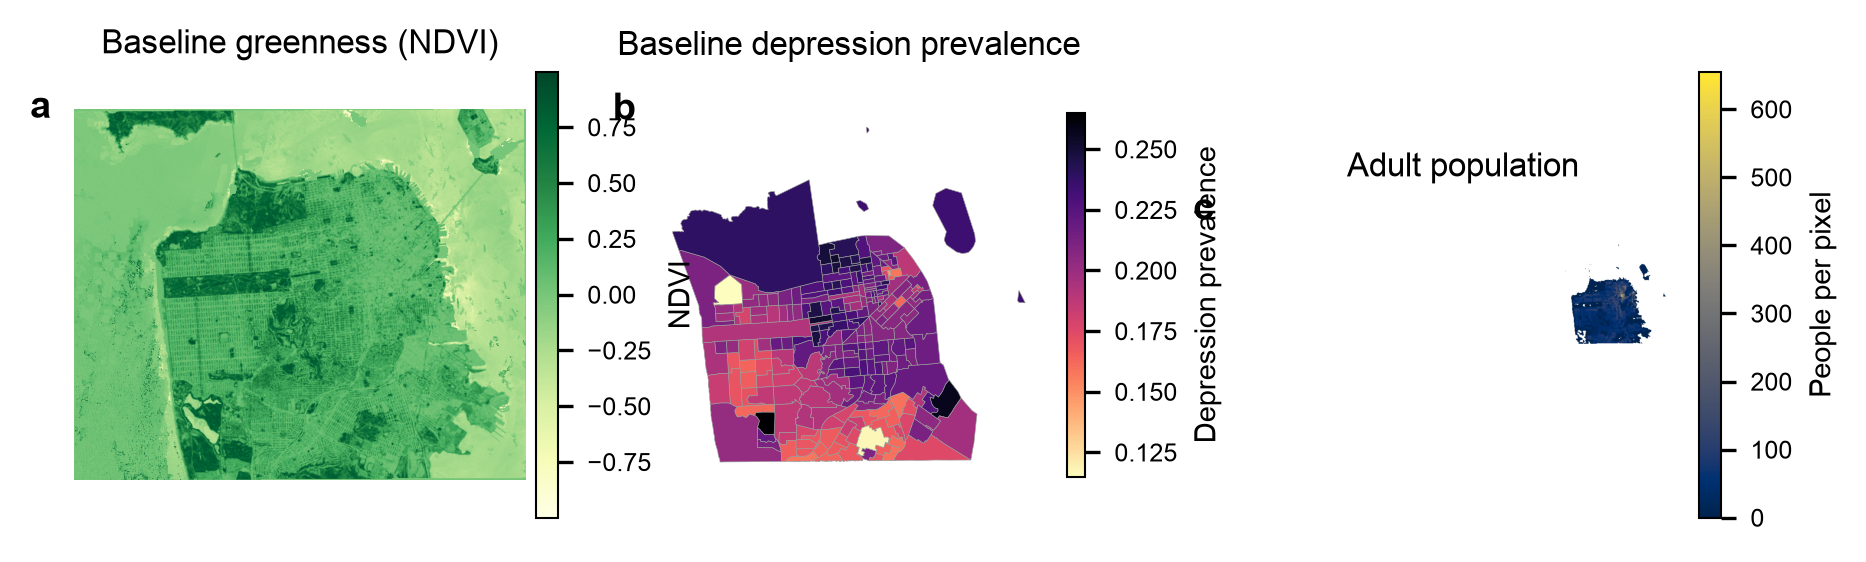
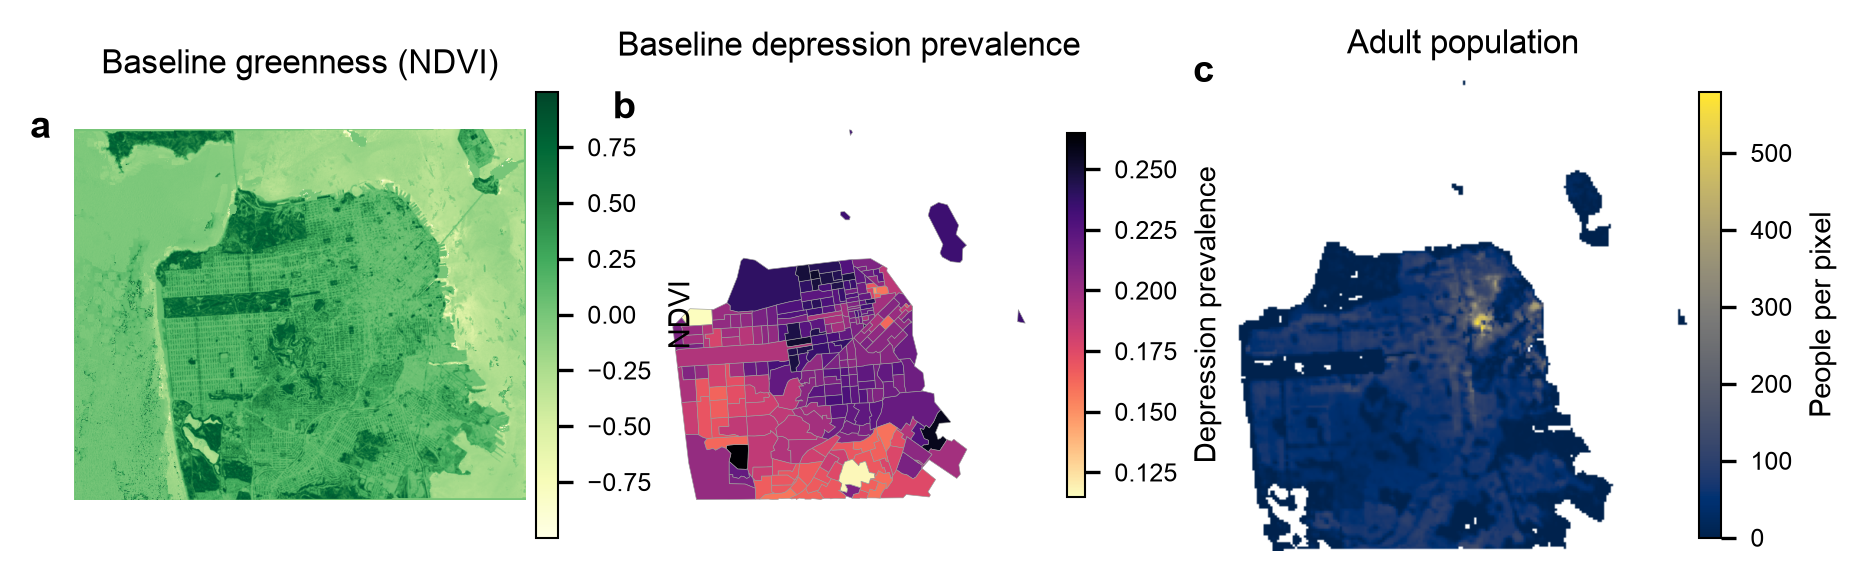
references: APA 7th ed. across report, manuscript tables, and docs

diff --git a/src/urban_mental_health/summarize_results.py b/src/urban_mental_health/summarize_results.py
@@ -34,6 +34,49 @@ SENS = RESULTS / "summaries" / "sensitivity_summary.csv"
 COST_FILE = UMH / "inputs" / "health_cost_rate.txt"
 OUT_MD = RESULTS / "summaries" / "results_summary.md"
 
+# Canonical APA (7th ed.) bibliography for the whole project. Keep in sync with
+# docs/references.md and make_manuscript_figures.py. Alphabetical by author.
+APA_REFERENCES = [
+    "Centers for Disease Control and Prevention. (2024). *PLACES: Local data for better "
+    "health (census tract and county data)* [Data set]. https://www.cdc.gov/places",
+    "Greenberg, P. E., Fournier, A.-A., Sisitsky, T., Simes, M., Berman, R., Koenigsberg, "
+    "S. H., & Kessler, R. C. (2021). The economic burden of adults with major depressive "
+    "disorder in the United States (2010 and 2018). *PharmacoEconomics, 39*(6), 653–665. "
+    "https://doi.org/10.1007/s40273-021-01019-4",
+    "Greenberg, P. E., Fournier, A.-A., Sisitsky, T., Simes, M., Berman, R., Koenigsberg, "
+    "S. H., & Kessler, R. C. (2023). The economic burden of adults with major depressive "
+    "disorder in the United States (2019). *Advances in Therapy, 40*(9), 4460–4479. "
+    "https://doi.org/10.1007/s12325-023-02622-x",
+    "König, H., König, H.-H., & Konnopka, A. (2020). The excess costs of depression: A "
+    "systematic review and meta-analysis. *Epidemiology and Psychiatric Sciences, 29*, "
+    "Article e30. https://doi.org/10.1017/S2045796019000180",
+    "Liu, Z., Chen, X., Cui, H., Ma, Y., Gao, N., Li, X., Meng, X., Lin, H., Abudou, H., "
+    "Guo, L., & Liu, Q. (2023). Green space exposure on depression and anxiety outcomes: A "
+    "meta-analysis. *Environmental Research, 231*(Pt 3), Article 116303. "
+    "https://doi.org/10.1016/j.envres.2023.116303",
+    "Natural Capital Project. (2024). *InVEST: Integrated Valuation of Ecosystem Services "
+    "and Tradeoffs (Urban Mental Health model)* [Computer software]. Stanford University. "
+    "https://naturalcapitalproject.stanford.edu/software/invest",
+    "U.S. Bureau of Economic Analysis. (2024). *Gross domestic product by county* "
+    "[Data set]. https://www.bea.gov/data/gdp/gdp-county-metro-and-other-areas",
+    "U.S. Census Bureau. (2024). *Cartographic boundary files (2024 vintage)* [Data set]. "
+    "https://www.census.gov/geographies/mapping-files/time-series/geo/cartographic-boundary.html",
+    "Vidal Yáñez, D., Pereira, E., Cirach, M., Daher, C., Nieuwenhuijsen, M., & Mueller, N. "
+    "(2023). An urban green space intervention with benefits for mental health: A health "
+    "impact assessment of the Barcelona \"Eixos Verds\" Plan. *Environment International, "
+    "174*, Article 107880. https://doi.org/10.1016/j.envint.2023.107880",
+    "WorldPop. (2025). *Global 2015–2030 constrained population estimates (Global2), "
+    "Release R2025A* [Data set]. University of Southampton. "
+    "https://hub.worldpop.org/geodata/listing?id=135",
+    "Wu, J., Di, W., Ruan, J., Li, S., Ying, J., Zhou, J., Rudan, I., & Song, P. (2025). "
+    "The global, regional and national preventable burden of depression attributable to "
+    "greenness and inequalities: A scenario-based health impact analysis. *Journal of "
+    "Global Health, 15*, Article 04280. https://doi.org/10.7189/jogh.15.04280",
+    "Zhang, J., & Yu, K. F. (1998). What's the relative risk? A method of correcting the "
+    "odds ratio in cohort studies of common outcomes. *JAMA, 280*(19), 1690–1691. "
+    "https://doi.org/10.1001/jama.280.19.1690",
+]
+
 
 def load_sum_csv(workspace: Path = WORKSPACE, suffix: str = "sf_2024"):
     """Return (per_tract_cases[list], total_cases, total_cost, path)."""
@@ -292,64 +335,26 @@ def literature_benchmark_lines(total_cases):
     return [
         "", "## How this compares with other studies", "",
         f"- **Greening magnitude.** Our +0.05 NDVI scenario is close to the Barcelona "
-        f"\"Eixos Verds\" green-corridor plan, whose HIA modelled an average **+0.059 NDVI** — "
-        f"so the dose is realistic, not arbitrary.",
-        f"- **Method precedent.** A 2025 global study (J. Global Health) uses the same design "
-        f"— scenario-based preventable depression burden from greenness via a pooled "
-        f"meta-analytic OR and population-attributable fractions — so the approach is "
-        f"established and publishable.",
+        f"\"Eixos Verds\" green-corridor plan, whose health impact assessment modelled an "
+        f"average **+0.059 NDVI** (Vidal Yáñez et al., 2023) — so the dose is realistic, "
+        f"not arbitrary.",
+        f"- **Method precedent.** Wu et al. (2025) use the same design — scenario-based "
+        f"preventable depression burden from greenness via a pooled meta-analytic odds ratio "
+        f"and population-attributable fractions — so the approach is established and publishable.",
         f"- **Effect magnitude.** Published per-0.1-NDVI depression reductions cluster around "
-        f"**5-8%**; our risk-ratio gives **{per01:.1f}%** per 0.1 NDVI — at the conservative "
-        f"end, as expected after the OR->RR correction (the higher figures use the OR directly).",
+        f"**5–8%**; our risk ratio gives **{per01:.1f}%** per 0.1 NDVI (converted from the "
+        f"Liu et al., 2023 odds ratio) — at the conservative end, as expected after the "
+        f"OR→RR correction (the higher figures use the OR directly).",
         f"- **Takeaway.** The preventable *fraction* is defensible and literature-consistent; "
         f"the absolute count depends on the population baseline (see check above).",
         "",
-        "_Full citations [1], [3], [4] in the References section._",
+        "_Sources: Liu et al. (2023); Vidal Yáñez et al. (2023); Wu et al. (2025) — see References._",
     ]
 
 
 def references_lines():
-    """Formal (Vancouver-style) reference list for the report."""
-    return [
-        "", "## References", "",
-        "1. Liu Z, Chen X, Cui H, Ma Y, Gao N, Li X, Meng X, Lin H, Abudou H, Guo L, Liu Q. "
-        "Green space exposure on depression and anxiety outcomes: a meta-analysis. "
-        "*Environmental Research.* 2023;231(Pt 3):116303. "
-        "doi:[10.1016/j.envres.2023.116303](https://doi.org/10.1016/j.envres.2023.116303).",
-        "2. Zhang J, Yu KF. What's the relative risk? A method of correcting the odds ratio "
-        "in cohort studies of common outcomes. *JAMA.* 1998;280(19):1690–1691. "
-        "doi:[10.1001/jama.280.19.1690](https://doi.org/10.1001/jama.280.19.1690).",
-        "3. Vidal Yáñez D, Pereira E, Cirach M, Daher C, Nieuwenhuijsen M, Mueller N. "
-        "An urban green space intervention with benefits for mental health: a health impact "
-        "assessment of the Barcelona \"Eixos Verds\" Plan. *Environment International.* "
-        "2023;174:107880. "
-        "doi:[10.1016/j.envint.2023.107880](https://doi.org/10.1016/j.envint.2023.107880).",
-        "4. The global, regional, and national preventable burden of depression attributable "
-        "to greenness and inequalities: a scenario-based health impact analysis. *Journal of "
-        "Global Health.* 2025;15:04280. "
-        "doi:[10.7189/jogh.15.04280](https://doi.org/10.7189/jogh.15.04280).",
-        "5. Greenberg PE, Fournier A-A, Sisitsky T, Simes M, Berman R, Koenigsberg SH, "
-        "Kessler RC. The economic burden of adults with major depressive disorder in the "
-        "United States (2010 and 2018). *PharmacoEconomics.* 2021;39(6):653–665. "
-        "doi:[10.1007/s40273-021-01019-4](https://doi.org/10.1007/s40273-021-01019-4).",
-        "6. Greenberg PE, et al. The economic burden of adults with major depressive disorder "
-        "in the United States (2019). *Advances in Therapy.* 2023. "
-        "doi:[10.1007/s12325-023-02622-x](https://doi.org/10.1007/s12325-023-02622-x).",
-        "7. König H, König H-H, Konnopka A. The excess costs of depression: a systematic "
-        "review and meta-analysis. *Epidemiology and Psychiatric Sciences.* 2019;29:e30. "
-        "doi:[10.1017/S2045796019000180](https://doi.org/10.1017/S2045796019000180).",
-        "8. Natural Capital Project. InVEST: Integrated Valuation of Ecosystem Services and "
-        "Tradeoffs — Urban Mental Health model. Stanford University; 2024. "
-        "https://naturalcapitalproject.stanford.edu/software/invest",
-        "9. Centers for Disease Control and Prevention. PLACES: Local Data for Better Health "
-        "(census-tract and county data), 2024 release. https://www.cdc.gov/places",
-        "10. WorldPop. Global 2015–2030 constrained population estimates (Global2), release "
-        "R2025A. University of Southampton. https://hub.worldpop.org/geodata/listing?id=135",
-        "11. US Census Bureau. Cartographic Boundary Files, 2024 vintage. "
-        "https://www.census.gov/geographies/mapping-files/time-series/geo/cartographic-boundary.html",
-        "12. US Bureau of Economic Analysis. Gross Domestic Product by County (San Francisco "
-        "County, FIPS 06075). https://www.bea.gov/data/gdp/gdp-county-metro-and-other-areas",
-    ]
+    """APA (7th ed.) reference list — alphabetical. Canonical copy: docs/references.md."""
+    return ["", "## References", ""] + [r for c in APA_REFERENCES for r in (c, "")]
 
 
 def _config_context():

diff --git a/src/urban_mental_health/make_manuscript_figures.py b/src/urban_mental_health/make_manuscript_figures.py
@@ -21,7 +21,11 @@ import argparse
 import csv
 import glob
 import logging
+import sys
 from pathlib import Path
+
+sys.path.insert(0, str(Path(__file__).resolve().parent))
+from summarize_results import APA_REFERENCES  # canonical APA bibliography  # noqa: E402
 
 import matplotlib as mpl
 mpl.use("Agg")
@@ -176,15 +180,15 @@ def fig4_sensitivity():
 def table1_data_sources():
     TABDIR.mkdir(parents=True, exist_ok=True)
     rows = [
-        ("Greenness (NDVI)", "Landsat C2 L2, JJAS 90th percentile, 30 m", "USGS/GEE", "2024"),
+        ("Greenness (NDVI)", "Landsat C2 L2, JJAS 90th percentile, 30 m", "USGS Landsat (via GEE)", "2024"),
         ("Greening scenarios", "LULC-masked / canopy-target / greenable", "NLCD Land Cover + TCC", "2021/2024"),
-        ("AOI + population units", "Census tracts; WorldPop adult population 100 m", "Census TIGER; WorldPop R2025A", "2024"),
-        ("Depression prevalence", "CDC PLACES crude prevalence (risk_rate)", "CDC PLACES", "2021"),
-        ("Effect size", "RR 0.944 per +0.1 NDVI (0.908-0.982); converted from OR 0.931", "Liu et al. 2023 (Environ. Res.)", "2023"),
-        ("Societal cost / case", "US$21,280 (range 17,000-23,000)", "Greenberg 2018/2019; Konig 2019 meta-analysis", "2024 USD"),
-        ("Model", "InVEST Urban Mental Health", "natcap.invest >=3.19", "-"),
+        ("AOI + population units", "Census tracts; WorldPop adult population 100 m", "U.S. Census Bureau (2024); WorldPop (2025)", "2024"),
+        ("Depression prevalence", "CDC PLACES crude prevalence (risk_rate)", "CDC (2024)", "2024"),
+        ("Effect size", "RR 0.944 per +0.1 NDVI (0.908-0.982); converted from OR 0.931", "Liu et al. (2023); Zhang & Yu (1998)", "2023"),
+        ("Societal cost / case", "US$21,280 (range 17,000-23,000)", "Greenberg et al. (2021, 2023); König et al. (2020)", "2024 USD"),
+        ("Model", "InVEST Urban Mental Health", "Natural Capital Project (2024)", "-"),
     ]
-    hdr = ["Input", "Description", "Source", "Year"]
+    hdr = ["Input", "Description", "Source (author–date; see References)", "Year"]
     with open(TABDIR / "Table1_data_sources.csv", "w", newline="") as fh:
         w = csv.writer(fh); w.writerow(hdr); w.writerows(rows)
     md = ["| " + " | ".join(hdr) + " |", "|" + "|".join(["---"] * len(hdr)) + "|"]
@@ -223,6 +227,16 @@ def table2_results_summary():
     LOGGER.info("Wrote Table2_results_summary.{csv,md}")
 
 
+def write_references():
+    """Write the APA reference list (Markdown) alongside the manuscript tables."""
+    TABDIR.mkdir(parents=True, exist_ok=True)
+    body = "\n\n".join(APA_REFERENCES)
+    (TABDIR / "References.md").write_text(
+        "# References\n\n_APA 7th edition; canonical copy in docs/references.md._\n\n"
+        + body + "\n")
+    LOGGER.info("Wrote References.md")
+
+
 def main():
     ap = argparse.ArgumentParser(description="Manuscript figures + tables.")
     ap.add_argument("--scenario", default="sf_2024", help="results-map run label.")
@@ -230,7 +244,7 @@ def main():
     for fn in (lambda: fig1_study_area(),
                lambda: fig2_results_map(cli.scenario),
                fig3_scenario_comparison, fig4_sensitivity,
-               table1_data_sources, table2_results_summary):
+               table1_data_sources, table2_results_summary, write_references):
         try:
             fn()
         except Exception as e:   # keep going; report which figure failed

diff --git a/results/summaries/results_summary.md b/results/summaries/results_summary.md
@@ -86,12 +86,12 @@ Baseline risk p0 used: **0.204** (population-weighted PLACES prevalence); centra
 
 ## How this compares with other studies
 
-- **Greening magnitude.** Our +0.05 NDVI scenario is close to the Barcelona "Eixos Verds" green-corridor plan, whose HIA modelled an average **+0.059 NDVI** — so the dose is realistic, not arbitrary.
-- **Method precedent.** A 2025 global study (J. Global Health) uses the same design — scenario-based preventable depression burden from greenness via a pooled meta-analytic OR and population-attributable fractions — so the approach is established and publishable.
-- **Effect magnitude.** Published per-0.1-NDVI depression reductions cluster around **5-8%**; our risk-ratio gives **5.6%** per 0.1 NDVI — at the conservative end, as expected after the OR->RR correction (the higher figures use the OR directly).
+- **Greening magnitude.** Our +0.05 NDVI scenario is close to the Barcelona "Eixos Verds" green-corridor plan, whose health impact assessment modelled an average **+0.059 NDVI** (Vidal Yáñez et al., 2023) — so the dose is realistic, not arbitrary.
+- **Method precedent.** Wu et al. (2025) use the same design — scenario-based preventable depression burden from greenness via a pooled meta-analytic odds ratio and population-attributable fractions — so the approach is established and publishable.
+- **Effect magnitude.** Published per-0.1-NDVI depression reductions cluster around **5–8%**; our risk ratio gives **5.6%** per 0.1 NDVI (converted from the Liu et al., 2023 odds ratio) — at the conservative end, as expected after the OR→RR correction (the higher figures use the OR directly).
 - **Takeaway.** The preventable *fraction* is defensible and literature-consistent; the absolute count depends on the population baseline (see check above).
 
-_Full citations [1], [3], [4] in the References section._
+_Sources: Liu et al. (2023); Vidal Yáñez et al. (2023); Wu et al. (2025) — see References._
 
 ## Data-quality checks
 
@@ -109,15 +109,27 @@ _Full citations [1], [3], [4] in the References section._
 
 ## References
 
-1. Liu Z, Chen X, Cui H, Ma Y, Gao N, Li X, Meng X, Lin H, Abudou H, Guo L, Liu Q. Green space exposure on depression and anxiety outcomes: a meta-analysis. *Environmental Research.* 2023;231(Pt 3):116303. doi:[10.1016/j.envres.2023.116303](https://doi.org/10.1016/j.envres.2023.116303).
-2. Zhang J, Yu KF. What's the relative risk? A method of correcting the odds ratio in cohort studies of common outcomes. *JAMA.* 1998;280(19):1690–1691. doi:[10.1001/jama.280.19.1690](https://doi.org/10.1001/jama.280.19.1690).
-3. Vidal Yáñez D, Pereira E, Cirach M, Daher C, Nieuwenhuijsen M, Mueller N. An urban green space intervention with benefits for mental health: a health impact assessment of the Barcelona "Eixos Verds" Plan. *Environment International.* 2023;174:107880. doi:[10.1016/j.envint.2023.107880](https://doi.org/10.1016/j.envint.2023.107880).
-4. The global, regional, and national preventable burden of depression attributable to greenness and inequalities: a scenario-based health impact analysis. *Journal of Global Health.* 2025;15:04280. doi:[10.7189/jogh.15.04280](https://doi.org/10.7189/jogh.15.04280).
-5. Greenberg PE, Fournier A-A, Sisitsky T, Simes M, Berman R, Koenigsberg SH, Kessler RC. The economic burden of adults with major depressive disorder in the United States (2010 and 2018). *PharmacoEconomics.* 2021;39(6):653–665. doi:[10.1007/s40273-021-01019-4](https://doi.org/10.1007/s40273-021-01019-4).
-6. Greenberg PE, et al. The economic burden of adults with major depressive disorder in the United States (2019). *Advances in Therapy.* 2023. doi:[10.1007/s12325-023-02622-x](https://doi.org/10.1007/s12325-023-02622-x).
-7. König H, König H-H, Konnopka A. The excess costs of depression: a systematic review and meta-analysis. *Epidemiology and Psychiatric Sciences.* 2019;29:e30. doi:[10.1017/S2045796019000180](https://doi.org/10.1017/S2045796019000180).
-8. Natural Capital Project. InVEST: Integrated Valuation of Ecosystem Services and Tradeoffs — Urban Mental Health model. Stanford University; 2024. https://naturalcapitalproject.stanford.edu/software/invest
-9. Centers for Disease Control and Prevention. PLACES: Local Data for Better Health (census-tract and county data), 2024 release. https://www.cdc.gov/places
-10. WorldPop. Global 2015–2030 constrained population estimates (Global2), release R2025A. University of Southampton. https://hub.worldpop.org/geodata/listing?id=135
-11. US Census Bureau. Cartographic Boundary Files, 2024 vintage. https://www.census.gov/geographies/mapping-files/time-series/geo/cartographic-boundary.html
-12. US Bureau of Economic Analysis. Gross Domestic Product by County (San Francisco County, FIPS 06075). https://www.bea.gov/data/gdp/gdp-county-metro-and-other-areas
+Centers for Disease Control and Prevention. (2024). *PLACES: Local data for better health (census tract and county data)* [Data set]. https://www.cdc.gov/places
+
+Greenberg, P. E., Fournier, A.-A., Sisitsky, T., Simes, M., Berman, R., Koenigsberg, S. H., & Kessler, R. C. (2021). The economic burden of adults with major depressive disorder in the United States (2010 and 2018). *PharmacoEconomics, 39*(6), 653–665. https://doi.org/10.1007/s40273-021-01019-4
+
+Greenberg, P. E., Fournier, A.-A., Sisitsky, T., Simes, M., Berman, R., Koenigsberg, S. H., & Kessler, R. C. (2023). The economic burden of adults with major depressive disorder in the United States (2019). *Advances in Therapy, 40*(9), 4460–4479. https://doi.org/10.1007/s12325-023-02622-x
+
+König, H., König, H.-H., & Konnopka, A. (2020). The excess costs of depression: A systematic review and meta-analysis. *Epidemiology and Psychiatric Sciences, 29*, Article e30. https://doi.org/10.1017/S2045796019000180
+
+Liu, Z., Chen, X., Cui, H., Ma, Y., Gao, N., Li, X., Meng, X., Lin, H., Abudou, H., Guo, L., & Liu, Q. (2023). Green space exposure on depression and anxiety outcomes: A meta-analysis. *Environmental Research, 231*(Pt 3), Article 116303. https://doi.org/10.1016/j.envres.2023.116303
+
+Natural Capital Project. (2024). *InVEST: Integrated Valuation of Ecosystem Services and Tradeoffs (Urban Mental Health model)* [Computer software]. Stanford University. https://naturalcapitalproject.stanford.edu/software/invest
+
+U.S. Bureau of Economic Analysis. (2024). *Gross domestic product by county* [Data set]. https://www.bea.gov/data/gdp/gdp-county-metro-and-other-areas
+
+U.S. Census Bureau. (2024). *Cartographic boundary files (2024 vintage)* [Data set]. https://www.census.gov/geographies/mapping-files/time-series/geo/cartographic-boundary.html
+
+Vidal Yáñez, D., Pereira, E., Cirach, M., Daher, C., Nieuwenhuijsen, M., & Mueller, N. (2023). An urban green space intervention with benefits for mental health: A health impact assessment of the Barcelona "Eixos Verds" Plan. *Environment International, 174*, Article 107880. https://doi.org/10.1016/j.envint.2023.107880
+
+WorldPop. (2025). *Global 2015–2030 constrained population estimates (Global2), Release R2025A* [Data set]. University of Southampton. https://hub.worldpop.org/geodata/listing?id=135
+
+Wu, J., Di, W., Ruan, J., Li, S., Ying, J., Zhou, J., Rudan, I., & Song, P. (2025). The global, regional and national preventable burden of depression attributable to greenness and inequalities: A scenario-based health impact analysis. *Journal of Global Health, 15*, Article 04280. https://doi.org/10.7189/jogh.15.04280
+
+Zhang, J., & Yu, K. F. (1998). What's the relative risk? A method of correcting the odds ratio in cohort studies of common outcomes. *JAMA, 280*(19), 1690–1691. https://doi.org/10.1001/jama.280.19.1690
+

diff --git a/docs/references.md b/docs/references.md
@@ -1,0 +1,30 @@
+# References
+
+Canonical project bibliography, **APA 7th edition**, alphabetical by author. This
+is the single source of truth; `summarize_results.py` (`APA_REFERENCES`) and
+`make_manuscript_figures.py` emit the same list, and the other docs cite these
+works author–date. Keep all copies in sync.
+
+Centers for Disease Control and Prevention. (2024). *PLACES: Local data for better health (census tract and county data)* [Data set]. https://www.cdc.gov/places
+
+Greenberg, P. E., Fournier, A.-A., Sisitsky, T., Simes, M., Berman, R., Koenigsberg, S. H., & Kessler, R. C. (2021). The economic burden of adults with major depressive disorder in the United States (2010 and 2018). *PharmacoEconomics, 39*(6), 653–665. https://doi.org/10.1007/s40273-021-01019-4
+
+Greenberg, P. E., Fournier, A.-A., Sisitsky, T., Simes, M., Berman, R., Koenigsberg, S. H., & Kessler, R. C. (2023). The economic burden of adults with major depressive disorder in the United States (2019). *Advances in Therapy, 40*(9), 4460–4479. https://doi.org/10.1007/s12325-023-02622-x
+
+König, H., König, H.-H., & Konnopka, A. (2020). The excess costs of depression: A systematic review and meta-analysis. *Epidemiology and Psychiatric Sciences, 29*, Article e30. https://doi.org/10.1017/S2045796019000180
+
+Liu, Z., Chen, X., Cui, H., Ma, Y., Gao, N., Li, X., Meng, X., Lin, H., Abudou, H., Guo, L., & Liu, Q. (2023). Green space exposure on depression and anxiety outcomes: A meta-analysis. *Environmental Research, 231*(Pt 3), Article 116303. https://doi.org/10.1016/j.envres.2023.116303
+
+Natural Capital Project. (2024). *InVEST: Integrated Valuation of Ecosystem Services and Tradeoffs (Urban Mental Health model)* [Computer software]. Stanford University. https://naturalcapitalproject.stanford.edu/software/invest
+
+U.S. Bureau of Economic Analysis. (2024). *Gross domestic product by county* [Data set]. https://www.bea.gov/data/gdp/gdp-county-metro-and-other-areas
+
+U.S. Census Bureau. (2024). *Cartographic boundary files (2024 vintage)* [Data set]. https://www.census.gov/geographies/mapping-files/time-series/geo/cartographic-boundary.html
+
+Vidal Yáñez, D., Pereira, E., Cirach, M., Daher, C., Nieuwenhuijsen, M., & Mueller, N. (2023). An urban green space intervention with benefits for mental health: A health impact assessment of the Barcelona "Eixos Verds" Plan. *Environment International, 174*, Article 107880. https://doi.org/10.1016/j.envint.2023.107880
+
+WorldPop. (2025). *Global 2015–2030 constrained population estimates (Global2), Release R2025A* [Data set]. University of Southampton. https://hub.worldpop.org/geodata/listing?id=135
+
+Wu, J., Di, W., Ruan, J., Li, S., Ying, J., Zhou, J., Rudan, I., & Song, P. (2025). The global, regional and national preventable burden of depression attributable to greenness and inequalities: A scenario-based health impact analysis. *Journal of Global Health, 15*, Article 04280. https://doi.org/10.7189/jogh.15.04280
+
+Zhang, J., & Yu, K. F. (1998). What's the relative risk? A method of correcting the odds ratio in cohort studies of common outcomes. *JAMA, 280*(19), 1690–1691. https://doi.org/10.1001/jama.280.19.1690

diff --git a/results/tables/References.md b/results/tables/References.md
@@ -1,0 +1,27 @@
+# References
+
+_APA 7th edition; canonical copy in docs/references.md._
+
+Centers for Disease Control and Prevention. (2024). *PLACES: Local data for better health (census tract and county data)* [Data set]. https://www.cdc.gov/places
+
+Greenberg, P. E., Fournier, A.-A., Sisitsky, T., Simes, M., Berman, R., Koenigsberg, S. H., & Kessler, R. C. (2021). The economic burden of adults with major depressive disorder in the United States (2010 and 2018). *PharmacoEconomics, 39*(6), 653–665. https://doi.org/10.1007/s40273-021-01019-4
+
+Greenberg, P. E., Fournier, A.-A., Sisitsky, T., Simes, M., Berman, R., Koenigsberg, S. H., & Kessler, R. C. (2023). The economic burden of adults with major depressive disorder in the United States (2019). *Advances in Therapy, 40*(9), 4460–4479. https://doi.org/10.1007/s12325-023-02622-x
+
+König, H., König, H.-H., & Konnopka, A. (2020). The excess costs of depression: A systematic review and meta-analysis. *Epidemiology and Psychiatric Sciences, 29*, Article e30. https://doi.org/10.1017/S2045796019000180
+
+Liu, Z., Chen, X., Cui, H., Ma, Y., Gao, N., Li, X., Meng, X., Lin, H., Abudou, H., Guo, L., & Liu, Q. (2023). Green space exposure on depression and anxiety outcomes: A meta-analysis. *Environmental Research, 231*(Pt 3), Article 116303. https://doi.org/10.1016/j.envres.2023.116303
+
+Natural Capital Project. (2024). *InVEST: Integrated Valuation of Ecosystem Services and Tradeoffs (Urban Mental Health model)* [Computer software]. Stanford University. https://naturalcapitalproject.stanford.edu/software/invest
+
+U.S. Bureau of Economic Analysis. (2024). *Gross domestic product by county* [Data set]. https://www.bea.gov/data/gdp/gdp-county-metro-and-other-areas
+
+U.S. Census Bureau. (2024). *Cartographic boundary files (2024 vintage)* [Data set]. https://www.census.gov/geographies/mapping-files/time-series/geo/cartographic-boundary.html
+
+Vidal Yáñez, D., Pereira, E., Cirach, M., Daher, C., Nieuwenhuijsen, M., & Mueller, N. (2023). An urban green space intervention with benefits for mental health: A health impact assessment of the Barcelona "Eixos Verds" Plan. *Environment International, 174*, Article 107880. https://doi.org/10.1016/j.envint.2023.107880
+
+WorldPop. (2025). *Global 2015–2030 constrained population estimates (Global2), Release R2025A* [Data set]. University of Southampton. https://hub.worldpop.org/geodata/listing?id=135
+
+Wu, J., Di, W., Ruan, J., Li, S., Ying, J., Zhou, J., Rudan, I., & Song, P. (2025). The global, regional and national preventable burden of depression attributable to greenness and inequalities: A scenario-based health impact analysis. *Journal of Global Health, 15*, Article 04280. https://doi.org/10.7189/jogh.15.04280
+
+Zhang, J., & Yu, K. F. (1998). What's the relative risk? A method of correcting the odds ratio in cohort studies of common outcomes. *JAMA, 280*(19), 1690–1691. https://doi.org/10.1001/jama.280.19.1690

diff --git a/docs/societal_cost_of_depression.md b/docs/societal_cost_of_depression.md
@@ -145,15 +145,25 @@ Run the model at the central value and re-run at low/high for a sensitivity band
 on `preventable_cost`. Use `--basis direct` (~$1,848) only if you explicitly want
 *healthcare-only* savings.
 
-## Sources
+## References
 
-- Greenberg et al. 2015 — [J Clin Psychiatry (DOI)](https://doi.org/10.4088/jcp.14m09298) · [PubMed](https://pubmed.ncbi.nlm.nih.gov/25742202/)
-- Greenberg et al. 2021 — [PharmacoEconomics (DOI)](https://doi.org/10.1007/s40273-021-01019-4) · [PubMed](https://pubmed.ncbi.nlm.nih.gov/33950419/)
-- Greenberg et al. 2023 — [Advances in Therapy (DOI)](https://doi.org/10.1007/s12325-023-02622-x) · [PMC](https://pmc.ncbi.nlm.nih.gov/articles/PMC10499687/)
-- König et al. 2019 meta-analysis — [Epidemiol Psychiatr Sci (DOI)](https://doi.org/10.1017/s2045796019000180) · [PMC](https://pmc.ncbi.nlm.nih.gov/articles/PMC8061284/)
-- Evans-Lacko & Knapp 2016 — [Soc Psychiatry Psychiatr Epidemiol (DOI)](https://doi.org/10.1007/s00127-016-1278-4)
-- [NIMH Major Depression statistics](https://www.nimh.nih.gov/health/statistics/major-depression) · [BLS CPI](https://www.bls.gov/cpi/)
-- MEPS-HC Medical Conditions 2023 — `data/urban-mental-health/raw/meps/`
+APA 7th edition. Project-wide list: [docs/references.md](references.md).
+
+Agency for Healthcare Research and Quality. (2023). *Medical Expenditure Panel Survey (MEPS): Medical conditions* [Data set]. https://meps.ahrq.gov/
+
+Evans-Lacko, S., & Knapp, M. (2016). Global patterns of workplace productivity for people with depression: Absenteeism and presenteeism costs across eight diverse countries. *Social Psychiatry and Psychiatric Epidemiology, 51*(11), 1525–1537. https://doi.org/10.1007/s00127-016-1278-4
+
+Greenberg, P. E., Fournier, A.-A., Sisitsky, T., Pike, C. T., & Kessler, R. C. (2015). The economic burden of adults with major depressive disorder in the United States (2005 and 2010). *Journal of Clinical Psychiatry, 76*(2), 155–162. https://doi.org/10.4088/JCP.14m09298
+
+Greenberg, P. E., Fournier, A.-A., Sisitsky, T., Simes, M., Berman, R., Koenigsberg, S. H., & Kessler, R. C. (2021). The economic burden of adults with major depressive disorder in the United States (2010 and 2018). *PharmacoEconomics, 39*(6), 653–665. https://doi.org/10.1007/s40273-021-01019-4
+
+Greenberg, P. E., Fournier, A.-A., Sisitsky, T., Simes, M., Berman, R., Koenigsberg, S. H., & Kessler, R. C. (2023). The economic burden of adults with major depressive disorder in the United States (2019). *Advances in Therapy, 40*(9), 4460–4479. https://doi.org/10.1007/s12325-023-02622-x
+
+König, H., König, H.-H., & Konnopka, A. (2020). The excess costs of depression: A systematic review and meta-analysis. *Epidemiology and Psychiatric Sciences, 29*, Article e30. https://doi.org/10.1017/S2045796019000180
+
+National Institute of Mental Health. (n.d.). *Major depression.* Retrieved 2025, from https://www.nimh.nih.gov/health/statistics/major-depression
+
+U.S. Bureau of Labor Statistics. (2024). *Consumer Price Index (CPI).* https://www.bls.gov/cpi/
 
 ## Optional: regionalizing the societal cost (national runs)
 

diff --git a/results/tables/Table1_data_sources.md b/results/tables/Table1_data_sources.md
@@ -1,11 +1,11 @@
 **Table 1.** Model inputs and data sources.
 
-| Input | Description | Source | Year |
+| Input | Description | Source (author–date; see References) | Year |
 |---|---|---|---|
-| Greenness (NDVI) | Landsat C2 L2, JJAS 90th percentile, 30 m | USGS/GEE | 2024 |
+| Greenness (NDVI) | Landsat C2 L2, JJAS 90th percentile, 30 m | USGS Landsat (via GEE) | 2024 |
 | Greening scenarios | LULC-masked / canopy-target / greenable | NLCD Land Cover + TCC | 2021/2024 |
-| AOI + population units | Census tracts; WorldPop adult population 100 m | Census TIGER; WorldPop R2025A | 2024 |
-| Depression prevalence | CDC PLACES crude prevalence (risk_rate) | CDC PLACES | 2021 |
-| Effect size | RR 0.944 per +0.1 NDVI (0.908-0.982); converted from OR 0.931 | Liu et al. 2023 (Environ. Res.) | 2023 |
-| Societal cost / case | US$21,280 (range 17,000-23,000) | Greenberg 2018/2019; Konig 2019 meta-analysis | 2024 USD |
-| Model | InVEST Urban Mental Health | natcap.invest >=3.19 | - |
+| AOI + population units | Census tracts; WorldPop adult population 100 m | U.S. Census Bureau (2024); WorldPop (2025) | 2024 |
+| Depression prevalence | CDC PLACES crude prevalence (risk_rate) | CDC (2024) | 2024 |
+| Effect size | RR 0.944 per +0.1 NDVI (0.908-0.982); converted from OR 0.931 | Liu et al. (2023); Zhang & Yu (1998) | 2023 |
+| Societal cost / case | US$21,280 (range 17,000-23,000) | Greenberg et al. (2021, 2023); König et al. (2020) | 2024 USD |
+| Model | InVEST Urban Mental Health | Natural Capital Project (2024) | - |

diff --git a/docs/effect_size.md b/docs/effect_size.md
@@ -6,10 +6,12 @@ and (2) why we keep a **300 m** exposure radius.
 
 ## Source
 
-Liu, Z. et al. (2023). *Green space exposure on depression and anxiety outcomes:
-a meta-analysis.* **Environmental Research 231:116303.**
-DOI [10.1016/j.envres.2023.116303](https://doi.org/10.1016/j.envres.2023.116303),
-PMID 37268208.
+Liu, Z., Chen, X., Cui, H., Ma, Y., Gao, N., Li, X., Meng, X., Lin, H., Abudou, H.,
+Guo, L., & Liu, Q. (2023). Green space exposure on depression and anxiety outcomes:
+A meta-analysis. *Environmental Research, 231*(Pt 3), Article 116303.
+https://doi.org/10.1016/j.envres.2023.116303
+
+(Full citations for all sources are in [docs/references.md](references.md), APA 7th ed.)
 
 Pooled association for depression: a **0.1-unit increase in NDVI** is linked to
 lower odds of depression, **merged OR = 0.931 (95% CI 0.887–0.977)**. (The same

diff --git a/results/tables/Table2_results_summary.md b/results/tables/Table2_results_summary.md
@@ -2,6 +2,6 @@
 
 | Metric | Value |
 |---|---|
-| Preventable cases per year (central) | 5,814 |
-| Avoided societal cost per year (central) | US$123,720,361 |
-| Preventable cases range (effect-size sensitivity) | 1,851 – 9,643 |
+| Preventable cases per year (central) | 4,867 |
+| Avoided societal cost per year (central) | US$103,573,424 |
+| Preventable cases range (effect-size sensitivity) | 1,549 – 8,073 |